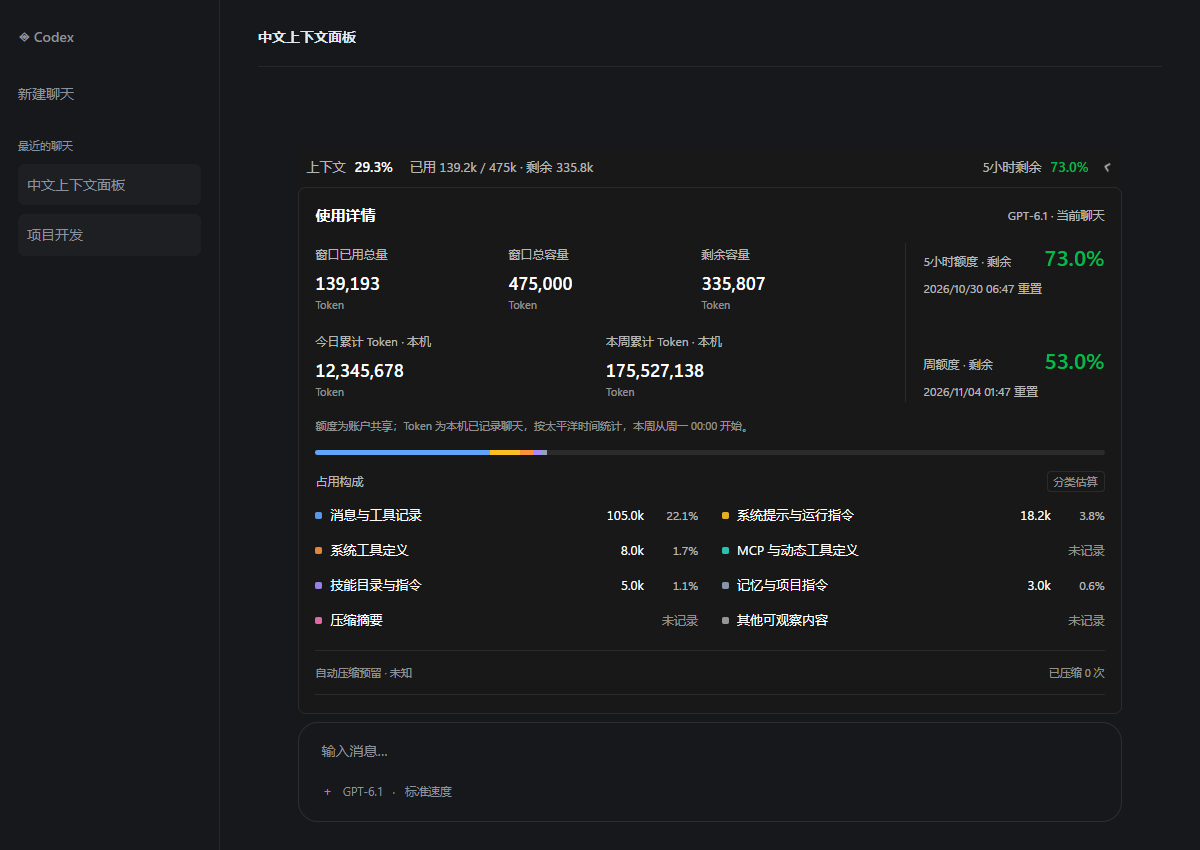
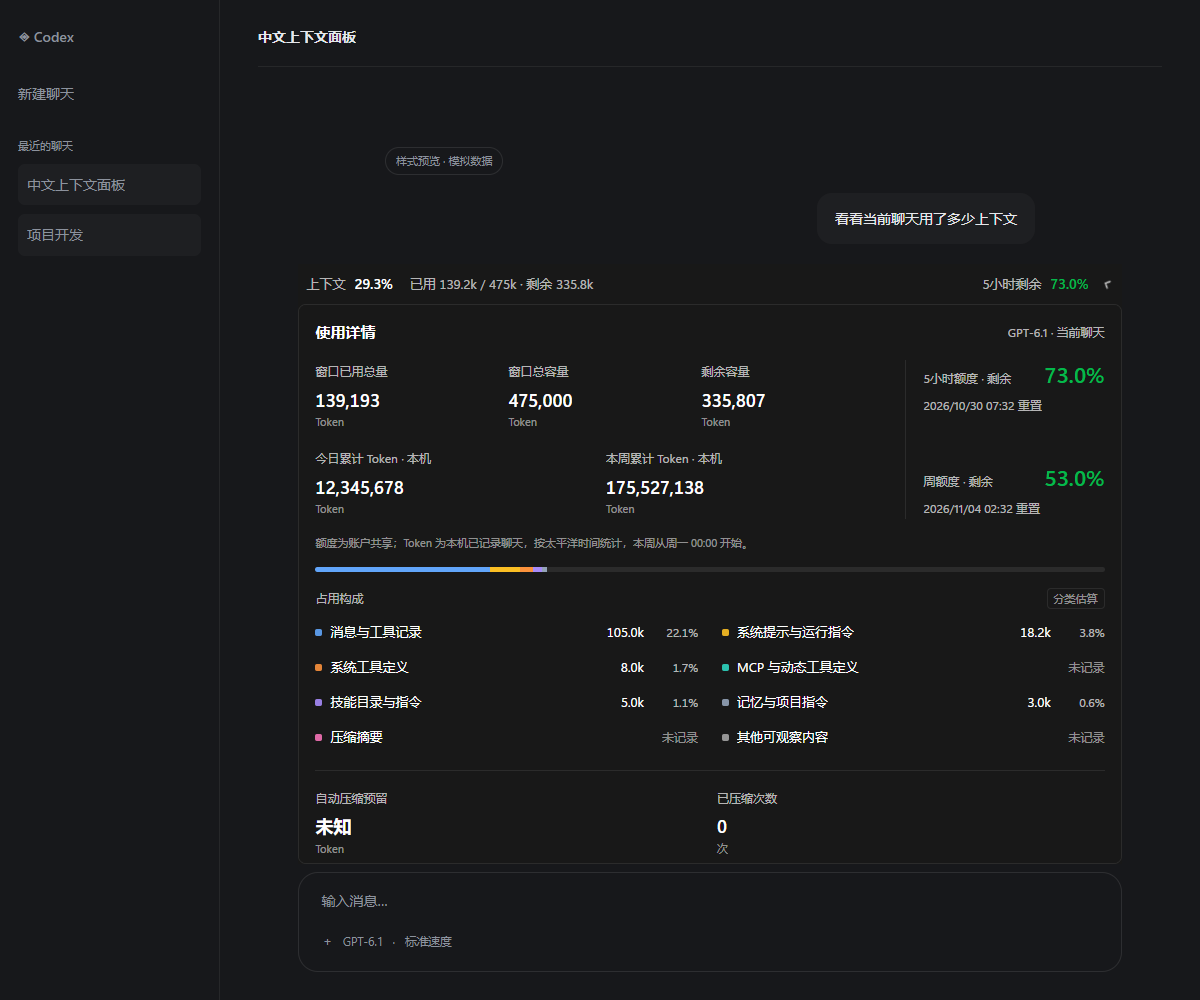
Release v1.5.1: simplify details footer and align compression metrics

diff --git a/widget.js b/widget.js
@@ -1,5 +1,5 @@
 (() => {
-  const KEY='__BOSS_CONTEXT_PANEL__',ID='boss-context-panel',VERSION='1.5.0',STORE='boss-context-panel-ui-v2';
+  const KEY='__BOSS_CONTEXT_PANEL__',ID='boss-context-panel',VERSION='1.5.1',STORE='boss-context-panel-ui-v2';
   if(window[KEY]?.version===VERSION)return;
   window[KEY]?.dispose();
   const UUID=/[0-9a-f]{8}(?:-[0-9a-f]{4}){3}-[0-9a-f]{12}/i;
@@ -11,7 +11,7 @@
   root.innerHTML=`<style>
   :host{--bg:var(--color-surface,#181818);--ink:var(--color-token-foreground,#fff);--muted:var(--color-token-text-secondary,rgba(255,255,255,.68));--faint:var(--app-color-text-foreground-tertiary,rgba(255,255,255,.52));--line:var(--color-border,rgba(255,255,255,.084));--accent:var(--color-token-foreground,#fff);--hover:var(--color-background-primary-surface,rgba(255,255,255,.04));--track:var(--color-border,rgba(255,255,255,.084));--quota-red:var(--color-text-danger-surface,#fa423e);--quota-yellow:var(--color-text-caution-surface,#ffc300);--quota-green:var(--color-text-success-surface,#04b84c);font:14px/1.55 -apple-system,BlinkMacSystemFont,"Segoe UI Variable Text","Segoe UI","Microsoft YaHei UI",sans-serif;color:var(--ink);color-scheme:dark;container-type:inline-size;user-select:none}
   :host([data-light]){--bg:var(--color-surface,#fff);--ink:var(--color-token-foreground,#181818);--muted:var(--color-token-text-secondary,rgba(0,0,0,.65));--faint:var(--app-color-text-foreground-tertiary,rgba(0,0,0,.52));--line:var(--color-border,rgba(0,0,0,.084));--accent:var(--color-token-foreground,#181818);--hover:var(--color-background-primary-surface,rgba(0,0,0,.04));--track:var(--color-border,rgba(0,0,0,.084));--quota-red:var(--color-text-danger-surface,#ba2623);--quota-yellow:var(--color-border-caution-outline,#916f00);--quota-green:var(--color-border-success-outline,#008635);color-scheme:light}
-  *{box-sizing:border-box}[hidden]{display:none!important}button{font:inherit;color:inherit;border:0;cursor:pointer}button:focus-visible,summary:focus-visible{outline:2px solid var(--color-token-focus-border,#3a83f7);outline-offset:-3px;border-radius:6px}
+  *{box-sizing:border-box}[hidden]{display:none!important}button{font:inherit;color:inherit;border:0;cursor:pointer}button:focus-visible{outline:2px solid var(--color-token-focus-border,#3a83f7);outline-offset:-3px;border-radius:6px}
   .surface{width:100%;min-width:0;border:0;border-radius:0;background:var(--bg);box-shadow:none;overflow:hidden;backdrop-filter:none}
   .toggle{width:100%;min-height:40px;display:flex;flex-wrap:wrap;align-items:center;gap:9px;padding:7px 8px;background:none;text-align:left;border-radius:6px}.toggle:hover{background:var(--hover)}
   .label{font-size:13px;font-weight:400;white-space:nowrap;color:var(--muted)}.pill{font-size:14px;font-weight:500;font-variant-numeric:tabular-nums;color:var(--accent);padding:0;border:0;background:none;white-space:nowrap}.token-usage{font-size:13px;color:var(--muted);font-variant-numeric:tabular-nums;white-space:nowrap;margin-left:8px}.quick{margin-left:auto;display:flex;align-items:center;gap:9px;min-width:0;font-size:13px;font-variant-numeric:tabular-nums;color:var(--muted)}.quota-pill{font-size:14px;font-weight:600;white-space:nowrap}.chevron{width:14px;height:14px;flex:none;stroke:var(--muted);fill:none;stroke-width:1.5;stroke-linecap:round;stroke-linejoin:round;margin-left:2px}.surface.expanded .chevron{transform:rotate(180deg)}
@@ -23,7 +23,7 @@
   [data-tone="low"]{color:var(--quota-red)}[data-tone="medium"]{color:var(--quota-yellow)}[data-tone="high"]{color:var(--quota-green)}[data-tone="unknown"]{color:var(--muted)}
   .scope-note{font-size:11px;line-height:1.65;color:var(--faint);margin-top:15px}.bar{height:5px;display:flex;border-radius:5px;overflow:hidden;background:var(--track);margin:15px 0 16px}.bar i{display:block;height:100%;min-width:0}.section-title{display:flex;justify-content:space-between;align-items:center;margin-bottom:7px;font-size:12px;color:var(--muted)}.estimate{font-size:11px;border:1px solid var(--line);border-radius:4px;padding:1px 6px;color:var(--faint)}
   .rows{display:grid;grid-template-columns:repeat(2,minmax(0,1fr));gap:2px 24px}.row{display:grid;grid-template-columns:7px minmax(0,1fr) 62px 46px;gap:8px;align-items:center;min-height:33px;font-size:13px;font-variant-numeric:tabular-nums}.dot{width:7px;height:7px;border-radius:2px;opacity:.9}.row-label{overflow:hidden;text-overflow:ellipsis;white-space:nowrap}.num,.pct{text-align:right;white-space:nowrap}.pct{color:var(--muted);font-size:12px}.unknown{color:var(--faint);grid-column:3/5;text-align:right;font-size:12px}
-  .separator{height:1px;background:var(--line);margin:13px 0}.meta{display:flex;align-items:center;justify-content:space-between;gap:12px;font-size:11px;color:var(--faint);font-variant-numeric:tabular-nums}.foot{font-size:12px;color:var(--muted);line-height:1.7}.foot summary{display:flex;justify-content:space-between;cursor:pointer;list-style:none}.foot summary::-webkit-details-marker{display:none}.explain{padding:9px 0 1px;color:var(--muted);user-select:text}.status{font-size:13px;color:var(--muted);padding:2px 0 10px}.offline{color:var(--quota-yellow)}.stamp{margin-top:9px;font-size:11px;color:var(--faint)}
+  .compression-stats{display:grid;grid-template-columns:repeat(2,minmax(0,1fr));gap:14px;border-top:1px solid var(--line);margin-top:16px;padding-top:16px}.status{font-size:13px;color:var(--muted);padding:2px 0 10px}.offline{color:var(--quota-yellow)}.stamp{margin-top:9px;font-size:11px;color:var(--faint)}
   @container(max-width:620px){.top-summary{grid-template-columns:1fr;gap:18px}.quota-details{display:grid;grid-template-columns:repeat(2,minmax(0,1fr));gap:18px;border-left:0;border-top:1px solid var(--line);padding:14px 0 0}.quota-heading{flex-direction:column;align-items:flex-start;gap:5px}.rows{grid-template-columns:1fr;gap:0}.body{padding:14px}.quick{gap:7px}.token-usage{margin-left:0}.toggle{gap:8px}.metric-value{font-size:18px}}
   @container(max-width:350px){.toggle{gap:7px;padding-inline:7px}.token-usage{font-size:13px}.metric-value{font-size:17px}.top-summary{gap:16px}.body{padding:12px}.totals{gap:8px}.quota-details{gap:12px}.quota-number{font-size:21px}}
   @media(prefers-reduced-motion:no-preference){.chevron{transition:transform .16s ease}.bar i{transition:width .25s ease}}
@@ -86,7 +86,7 @@
   function globalSummary(d){updateQuota(el('.quota-pill'),d.quota?.fiveHour);el('.token-usage').textContent='已用 '+compact(d.used)+' / '+compact(d.window)+' · 剩余 '+compact(d.remaining);el('.token-usage').title='当前窗口已用 '+exact(d.used)+' Token / 总容量 '+exact(d.window)+' Token · 剩余 '+exact(d.remaining)+' Token';for(const n of root.querySelectorAll('.quota-number'))updateQuota(n,d.quota?.[n.dataset.period]);for(const n of root.querySelectorAll('.quota-reset'))n.textContent=d.quota?.status==='ready'?resetTime(d.quota[n.dataset.period]?.resetsAt,true):'官方额度数据暂不可用';}
   function node(tag,cls,text){const n=document.createElement(tag);if(cls)n.className=cls;if(text!==undefined)n.textContent=text;return n;}
   function row(r,window){const n=node('div','row');const dot=node('span','dot');dot.style.background=r.color;n.append(dot,node('span','row-label',r.label));if(!r.observable||r.tokens==null)n.append(node('span','unknown','未记录'));else{const num=node('span','num',fmt(r.tokens));num.title='约 '+exact(r.tokens)+' Token';n.append(num,node('span','pct',pc(window?r.tokens/window*100:null)));}return n;}
-  function metric(label,value){const tile=node('div','metric');const number=node('div','metric-value',exact(value));number.append(node('span','unit','Token'));tile.append(node('div','metric-name',label),number);return tile;}
+  function metric(label,value,unit='Token'){const tile=node('div','metric');const number=node('div','metric-value',typeof value==='string'?value:exact(value));number.append(node('span','unit',unit));tile.append(node('div','metric-name',label),number);return tile;}
   function globalDetails(body,d,showWindow=false){
     const activity=d.activity||{},quota=d.quota||{},top=node('div','top-summary'),main=node('div','usage-main');
     if(showWindow){const totals=node('div','totals');totals.append(metric('窗口已用总量',d.used),metric('窗口总容量',d.window),metric('剩余容量',d.remaining));main.append(totals);}
@@ -101,7 +101,7 @@
     last=cache.get(id)||last;
     if(data?.threadId===id){lastPing=Date.now();if(offline){offline=false;renderKey=null;}}
     const d=last||{status:'waiting',threadId:id},key=JSON.stringify(d);if(key===renderKey){theme();return;}renderKey=key;
-    const body=el('.body'),scroll=body.scrollTop,explainOpen=el('details')?.open;body.replaceChildren();
+    const body=el('.body'),scroll=body.scrollTop;body.replaceChildren();
     const accent=d.percent>=85?'var(--color-text-danger-surface,#fa423e)':d.percent>=70?'var(--color-text-warning-surface,#fb6a22)':null;
     if(accent)host.style.setProperty('--accent',accent);else host.style.removeProperty('--accent');
     el('.pill').textContent=d.percent==null?(d.status==='ready'?'容量未知':'暂无记录'):pc(d.percent);
@@ -115,10 +115,10 @@
       if(d.window)for(const r of d.rows||[]){if(!r.tokens)continue;const seg=node('i');seg.style.background=r.color;seg.style.width=Math.max(0,Math.min(100,r.tokens/d.window*100))+'%';bar.append(seg);}body.append(bar);
       const caption=node('div','section-title');caption.append(node('span','','占用构成'),node('span','estimate','分类估算'));body.append(caption);
       const rows=node('div','rows');for(const r of d.rows||[])rows.append(row(r,d.window));body.append(rows);
-      body.append(node('div','separator'));const meta=node('div','meta');meta.append(node('span','','自动压缩预留 · 未知'),node('span','','已压缩 '+(d.compactions||0)+' 次'));body.append(meta);
+      const compression=node('div','compression-stats');compression.setAttribute('aria-label','上下文压缩');
+      const reserve=metric('自动压缩预留',d.reserve??'未知');reserve.title='自动压缩预留未由日志提供时显示未知，剩余容量不代表距离压缩的精确余量。';
+      compression.append(reserve,metric('已压缩次数',d.compactions??0,'次'));body.append(compression);
     }
-    body.append(node('div','separator'));const details=node('details','foot'),summary=node('summary');summary.append(node('span','','数据说明'),node('span','','⌄'));details.append(summary,node('div','explain','窗口已用总量包含最近请求的输入与输出，容量采用同一条用量记录。分类按可观察内容估算，不是官方逐项计数；未记录不等于零。自动压缩预留未知，剩余容量不代表距离压缩的精确余量。'));details.open=!!explainOpen;body.append(details);
-    const stamp=d.updatedAt?new Date(d.updatedAt).toLocaleTimeString('zh-CN',{hour12:false}):'暂无记录';const footer=node('div','meta stamp');footer.append(node('span','','聊天 '+id.slice(0,8)),node('span','',stamp+' · 对话结束后更新'));footer.title=id;body.append(footer);
     if(d.parseErrors)body.append(node('div','stamp','有 '+d.parseErrors+' 条日志无法解析，分类可能不完整'));
     body.scrollTop=scroll;theme();expansion();
   }

diff --git a/使用说明.md b/使用说明.md
@@ -1,4 +1,4 @@
-# Codex 中文状态栏 1.5.0
+# Codex 中文状态栏 1.5.1
 
 双击桌面或开始菜单的 **Codex 上下文面板**，启动 Codex 和内嵌状态栏。安装时使用 `-ShortcutPath '现有快捷方式的完整路径.lnk'` 可接管桌面或 DeskBox 中的原入口，名称与位置保持原样，原始文件备份后在卸载时恢复。当前安装支持直接更新，不需要结束聊天。若从未接管的普通入口启动且没有本机接入端口，需要正常退出后再从面板入口启动；启动器不会强制结束 Codex。
 
@@ -7,6 +7,7 @@
 - 状态栏内嵌在输入框正上方，跟随输入框宽度与布局，不支持拖动。
 - 收起时显示上下文已用占比，以及“已用 185k / 475k · 剩余 290k”格式的当前窗口用量、总容量、剩余量，右侧为 5 小时额度剩余占比。示例数字不代表实际用量。
 - 点状态栏展开后，左侧查看窗口用量与日／周 Token，右上方查看 5 小时和周额度的剩余百分比及重置时间，下方查看占用构成。窄窗口自动改为纵向布局。
+- 详情底部为自动压缩预留和已压缩次数两列指标，字号与窗口用量一致；不再显示数据说明折叠区、聊天标识与更新时间。数据口径保留在本文中。
 - 采用 Codex 原生主题变量和简洁列表布局，支持深浅主题；无玻璃渐变、模糊、阴影、装饰徽章或嵌套数据卡片。
 - 详情较长时可以滚动；切换聊天按聊天 ID 切换数据，无法确定当前聊天时隐藏。
 - 启动后后台静默预读最近 128 个聊天，约每 10 秒检查变化。前台按聊天 ID 缓存最多 256 份数字快照，切回已缓存聊天立即显示，不先清空或显示读取动画。未缓存的较早聊天首次选择仍需读取，首次用量尚未产生时显示“暂无记录”。
@@ -26,7 +27,7 @@
 
 ## 安装、隐私与维护
 
-安装于 `%LOCALAPPDATA%\Programs\CodexContextPanel\1.5.0`。运行状态与错误日志位于 `%LOCALAPPDATA%\CodexContextPanel`；展开状态保存在 Codex 当前用户的 localStorage。
+安装于 `%LOCALAPPDATA%\Programs\CodexContextPanel\1.5.1`。运行状态与错误日志位于 `%LOCALAPPDATA%\CodexContextPanel`；展开状态保存在 Codex 当前用户的 localStorage。
 
 面板只读本机日志，不保存提示词副本或登录令牌内容。官方额度通过已有 Codex CLI 的只读 app-server 连接读取，不发送聊天、不兑换重置卡，不向第三方发送数据。登录状态仅检查文件元数据以刷新连接，不解析凭据。
 

diff --git a/README.md b/README.md
@@ -2,7 +2,7 @@
 
 在 Windows 版 Codex 输入框上方显示上下文用量、已用 Token、5 小时剩余额度，以及本机今日／本周 Token。
 
-**非官方社区小工具，与 OpenAI 无隶属关系。当前版本：1.5.0。**
+**非官方社区小工具，与 OpenAI 无隶属关系。当前版本：1.5.1。**
 
 ![收起状态栏，模拟数据](assets/collapsed.png)
 
@@ -25,7 +25,7 @@
 适用于 **Windows 10/11、Windows 版 Codex 桌面应用、Node.js 22+ 和可运行的 Codex CLI**。当前已在维护者本机的 Windows Store 版 Codex 验证；其他版本不保证兼容。macOS、Linux 和终端状态栏不在支持范围内。
 
 1. 安装 [Node.js](https://nodejs.org/) 和 [Codex CLI](https://learn.chatgpt.com/docs/cli)，确认在 PowerShell 中能运行 `node --version`、`codex --version`，并已登录 Codex。
-2. 在 [Releases](https://github.com/Canvai1337/codex-context-panel-zh/releases) 下载 `codex-context-panel-zh-v1.5.0-windows.zip`，解压到任意文件夹。
+2. 在 [Releases](https://github.com/Canvai1337/codex-context-panel-zh/releases) 下载 `codex-context-panel-zh-v1.5.1-windows.zip`，解压到任意文件夹。
 3. 在解压后的文件夹打开 PowerShell，运行：
 
    ```powershell
@@ -44,7 +44,7 @@
 
 该文件仍保留原名称与位置，改为同时启动 Codex 和面板；原始快捷方式备份在 `%LOCALAPPDATA%\CodexContextPanel`，卸载自动恢复。后续安装会自动更新已接管的入口。此功能针对 `.lnk` 文件；Windows 自带的应用列表和原生任务栏固定入口不会自动改写。
 
-安装目录：`%LOCALAPPDATA%\Programs\CodexContextPanel\1.5.0`。不需要管理员权限。安装和运行无需 `npm install`；npm 开发依赖仅用于下文的测试和预览。
+安装目录：`%LOCALAPPDATA%\Programs\CodexContextPanel\1.5.1`。不需要管理员权限。安装和运行无需 `npm install`；npm 开发依赖仅用于下文的测试和预览。
 
 ## 数据说明与隐私
 
@@ -62,7 +62,7 @@
 在 PowerShell 中运行，然后正常重启 Codex：
 
 ```powershell
-& "$env:LOCALAPPDATA\Programs\CodexContextPanel\1.5.0\Uninstall.ps1"
+& "$env:LOCALAPPDATA\Programs\CodexContextPanel\1.5.1\Uninstall.ps1"
 ```
 
 如需一并删除面板诊断文件，在命令末尾加 `-RemoveSettings`。卸载只停止本面板及其只读 app-server，不停止 Codex 应用或其他聊天。

diff --git a/CHANGELOG.md b/CHANGELOG.md
@@ -1,5 +1,11 @@
 # 更新记录
 
+## 1.5.1 · 2026-10-30
+
+- 移除详情底部的数据说明折叠区、聊天标识和更新时间，缩短信息尾部。
+- 将自动压缩预留和已压缩次数改为双列指标，标签、数值和单位字号与上方窗口用量保持一致。
+- 更新深浅主题预览和使用说明；保留后台预读与整轮结束后更新的行为。
+
 ## 1.5.0 · 2026-10-30
 
 - 安装时可通过 `-ShortcutPath` 接管现有桌面或 DeskBox 的 `.lnk` 入口，保留名称与位置；原文件备份，卸载时恢复。后续升级自动更新已接管的入口。
